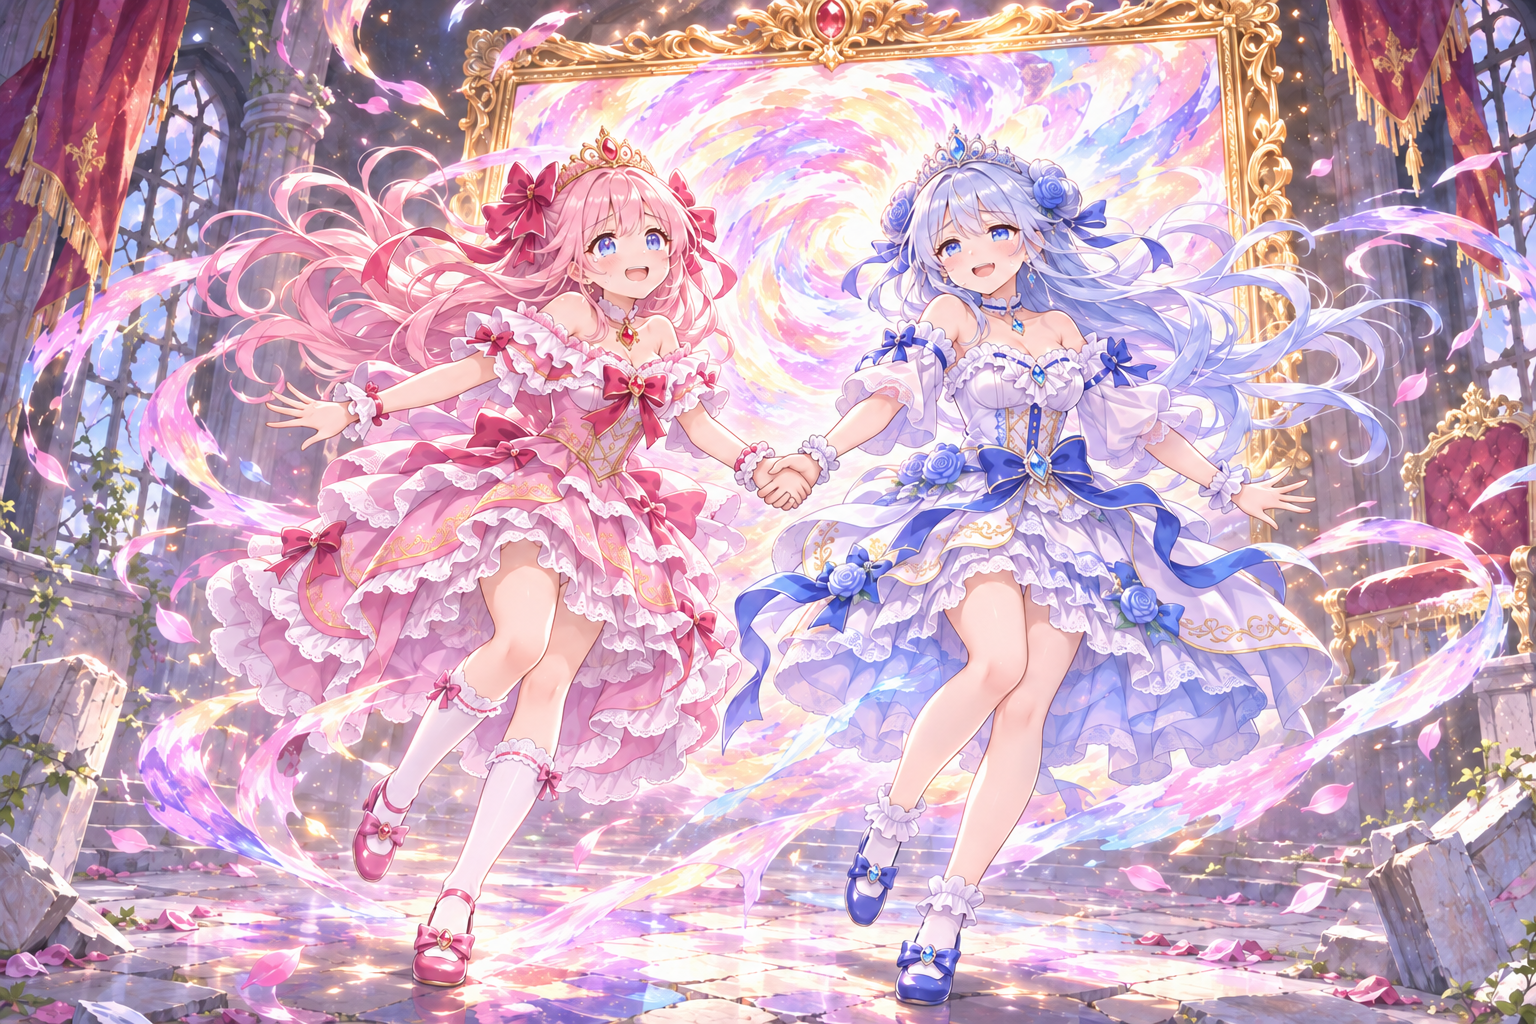
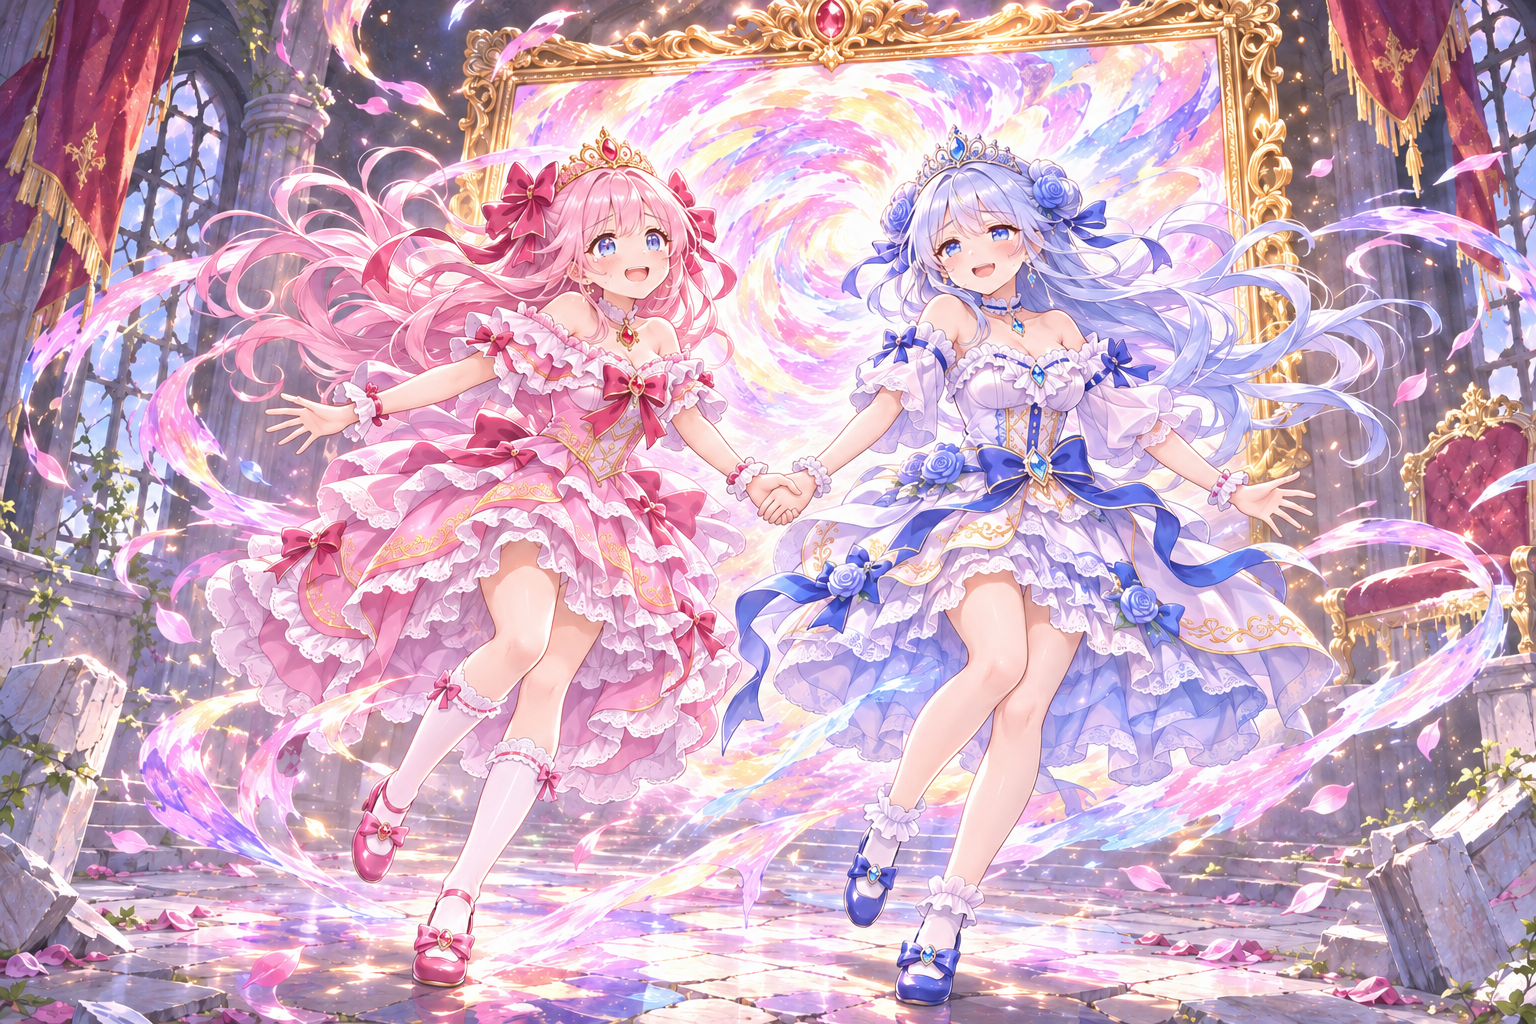
重画 memory_sucked：并排牵手用一左一右、掌心相对（不是握手），按身材比例规范

diff --git a/tools/art/src/story_scenes/prompts.md b/tools/art/src/story_scenes/prompts.md
@@ -122,3 +122,18 @@ THE ONLY CHANGE — fix the HANDS:
 - Exactly two arms and two hands per princess.
 Keep shoes on (this scene is not a tickling scene). No text, no letters, no numbers, no UI, no watermark, no signature.
 ```
+
+## memory_sucked（第八轮：并排牵手用一左一右、掌心相对，不是握手；身材比例规范；采用）
+
+```
+Use your built-in image generation tool (image_gen) to create the image described below, saved in the current directory as memory_sucked_v4.png (PNG). Do not edit or create any other files. After saving it, reply with just the filename.
+Attached ref_sucked_v1.png is the APPROVED illustration. Recreate it as faithfully as possible — SAME composition, same camera, same two princesses in the same poses, outfits, hair, expressions, colors, lighting, the same golden picture frame with the watercolor vortex behind them, the same ruined throne room, petals and paint ribbons. Same 1536x1024 landscape canvas, same polished anime event-CG style (ref_style.png), faces as in ref_princesses.png.
+THE ONLY CHANGE — fix the HANDS so they are anatomically correct:
+- The two princesses stand side by side, so they hold hands with OPPOSITE hands: the pink princess (left) uses her LEFT hand, the blue princess (right) uses her RIGHT hand. Draw a simple, natural side-by-side HAND-HOLD (like two friends walking together): palms facing each other, fingers gently wrapped around the other's hand, both thumbs resting on top, seen clearly from the front. It is NOT a handshake (a handshake would need two right hands) and NOT interlocked in a confusing knot.
+- Each hand has exactly five fingers; only these two hands touch.
+- Each princess's OTHER arm is stretched outward with an open, relaxed hand with one thumb and four clearly separated fingers.
+- Exactly two arms and two hands per princess, each arm a natural length.
+BODY (mandatory, critical): slim and long-limbed figures with natural limb proportions and long legs, about 6.5 to 7 heads tall, balanced shoulder / waist / leg ratios. Keep cute, youthful, girlish anime faces, but NOT child bodies, NOT chibi short arms or legs, NOT oversized heads. Outfits complete, neat and tidy. Natural poses with accurate human anatomy — every arm attached at the shoulder with a correct upper arm, elbow and forearm of normal length; legs attached at the hips with correct thighs, knees and calves; no misplaced, twisted, stretched, extra or missing limbs.
+QUALITY: high-definition, polished Japanese anime illustration, fine delicate line art, soft highlights, bright candy colors, complete full-figure composition with nothing cropped.
+Keep shoes on (this scene is not a tickling scene). No text, no letters, no numbers, no UI, no watermark, no signature.
+```
